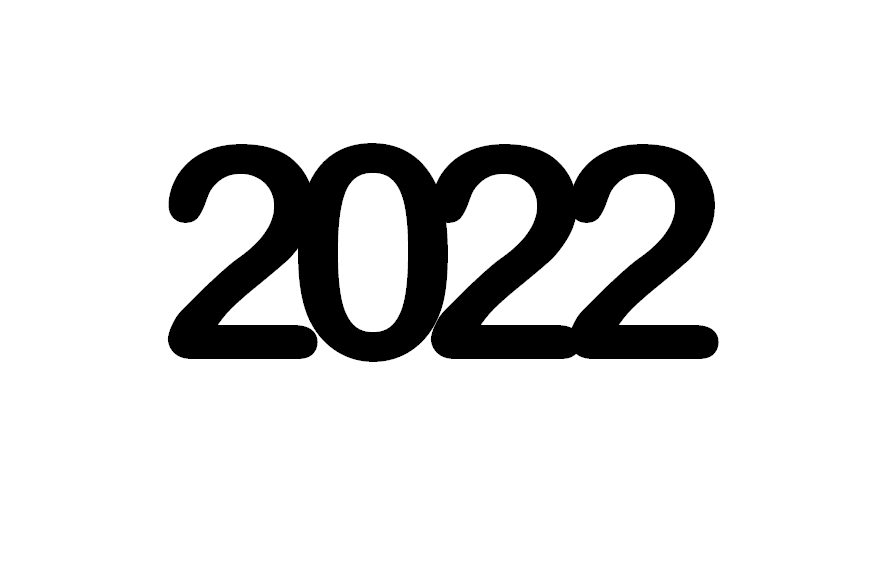
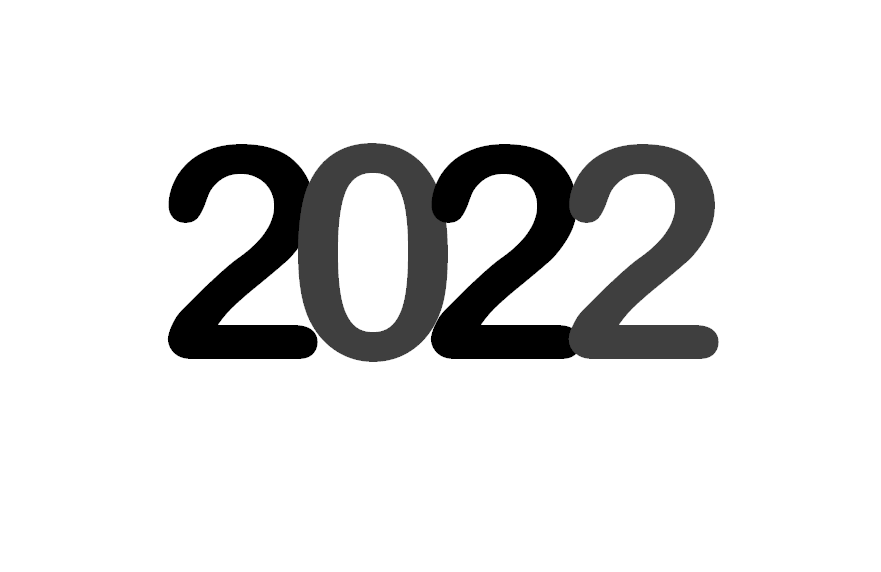
separate digits

Changed region(s): [[0.3371, 0.2378, 0.521, 0.6538], [0.6436, 0.2378, 0.8275, 0.6538]]

diff --git a/pcboutline/readme.md b/pcboutline/readme.md
@@ -1,0 +1,3 @@
+# PCB outline
+
+(end)
